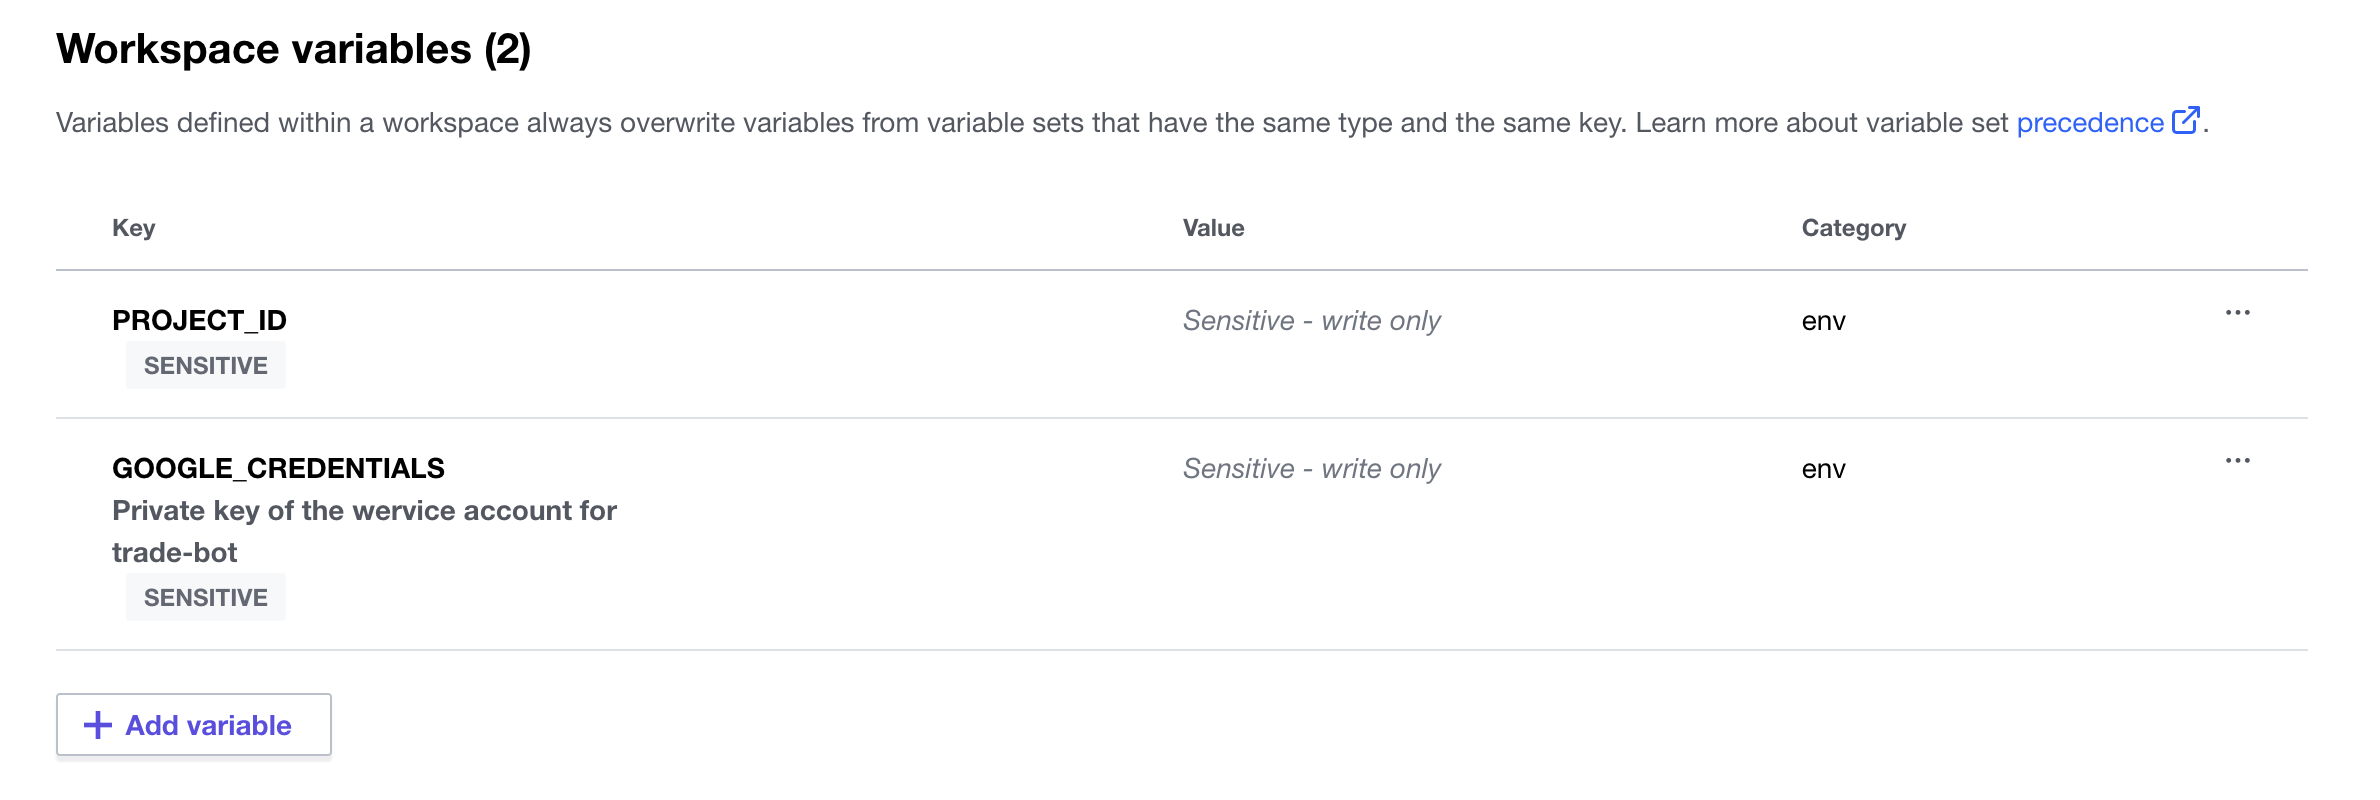
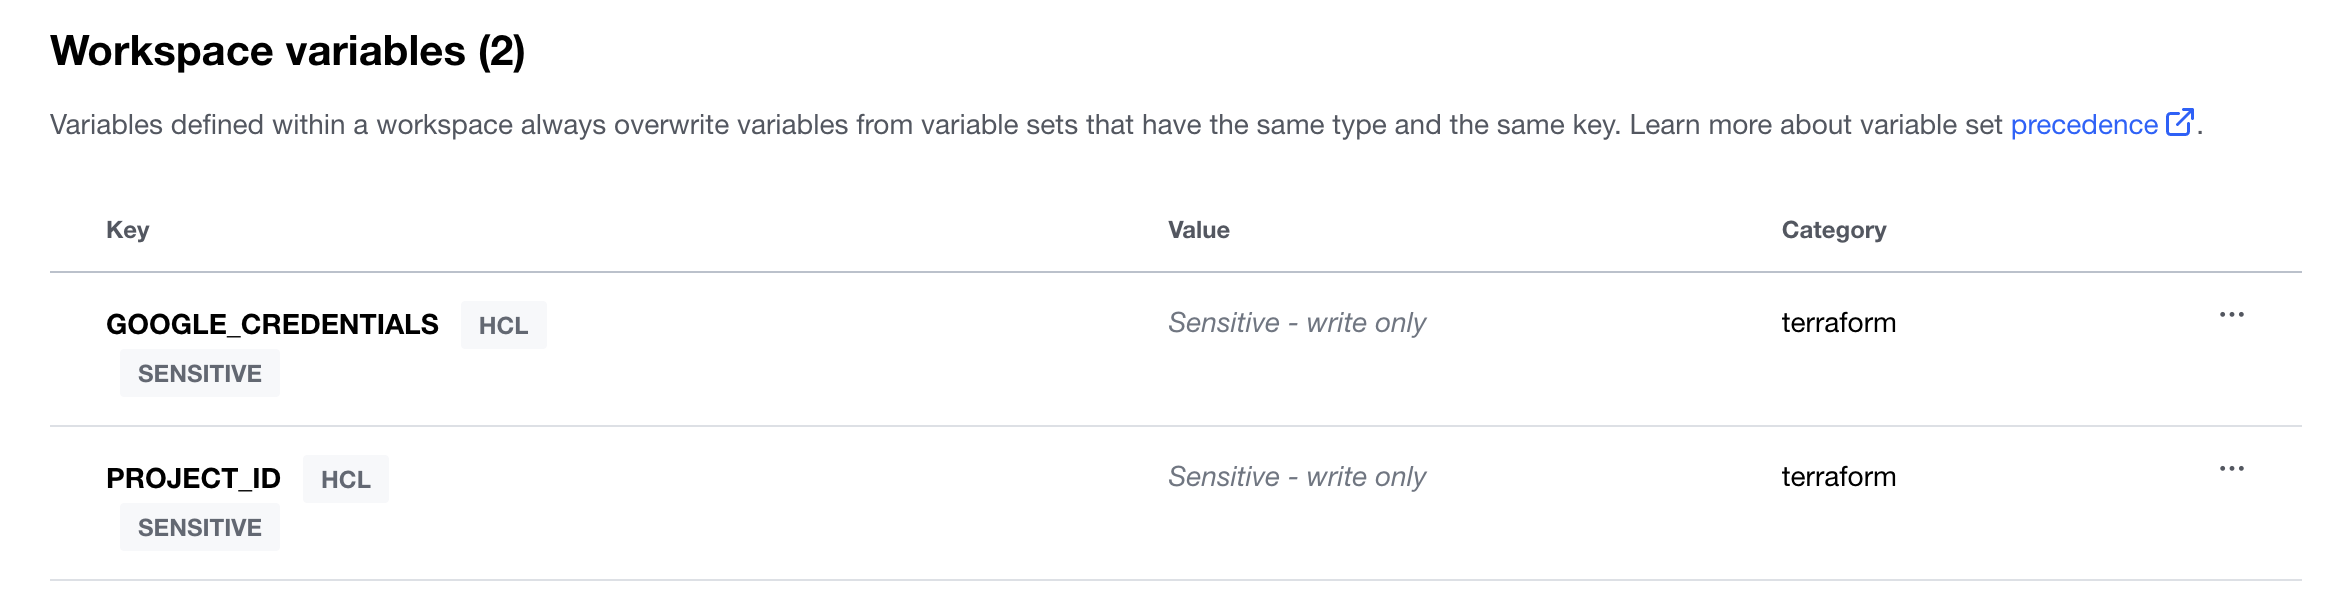
add more document

diff --git a/README.md b/README.md
@@ -129,14 +129,33 @@ and confirm your e-mail address after the registration.
 
 ### Create a workspace in Terraform Cloud
 Create a workspace by following the steps at: https://www.terraform.io/cloud-docs/workspaces/creating#create-a-workspace.
+[Login to Terraform Cloud](https://app.terraform.io/app).
+When your infrastructure config is changed, it should be automatically applied to the infrastructure.
+Terraform cloud can update the infrastructure when your code on GitHub is updated.
+Let's integrate Github when creating a new workspace.
 
-Workspaces -> "+ New Workspace" -> "Version Control Workflow" -> "GitHub" -> Enter your github repository (e.g. "dakimura/bot")
+Workspaces -> "+ New Workspace" -> "Version Control Workflow" -> "Connect to a different VCS"
+-> Click the down-arrow button next to "Github" -> Click "GitHub.com(Custom)"
+-> Setup Provider by following the instruction.
 
-### Connect Terraform to your Github repository
-//TODO:
+![](img/setup_provider.png)
+
+-> Click "Connect and Continue"
+
+After successfully integrating Terraform cloud app to Github,
+You'll see the following screen:
+![](img/tf_github_integrated.png)
+
+Let's go back to the screen to create a workspace, and now you would be able to see the button with the integrated GitHub app.
+![](img/after_github_integ.png)
+Click it and choose this repository, and create a workspace.
+![](img/choose_repo.png)
+
+You would be asked to set PROJECT_ID and GOOGLE_CREDENTIALS variables but skip it for now
+and move to the next step.
 
 ### Register GCP Project ID & Service account key to Terraform Cloud as Environmental Variables
-After creating a workspace, we register the downloaded GCP service account key to Terraform cloud.
+After creating a workspace, we register the GCP Project ID and downloaded GCP service account key to Terraform cloud.
 Go to the workspace you created.
 ![](img/workspaces.png)
 
@@ -155,6 +174,7 @@ to other users who can see your workspace.
 
 In the same way, add Key="PROJECT_ID", Value=trade-bot-123456"
 (Replace the project ID with your own)
+![](img/set_variable.png)
 
 Click "Save Variable".
 
@@ -162,7 +182,7 @@ Click "Save Variable".
 Now you should have 2 environmental variables.
 
 ### Run Terraform (apply)
-Go to your workspace page -> Click "Runs" -> Click ""
+Go to your workspace page -> Click "Runs" -> Click "Actions" -> "Start new run"
 After Planning and Cost Estimation is done, click "Confirm & Apply"
 -> Click "Confirm Plan"
 ![](img/tf_confirm_apply.png)
